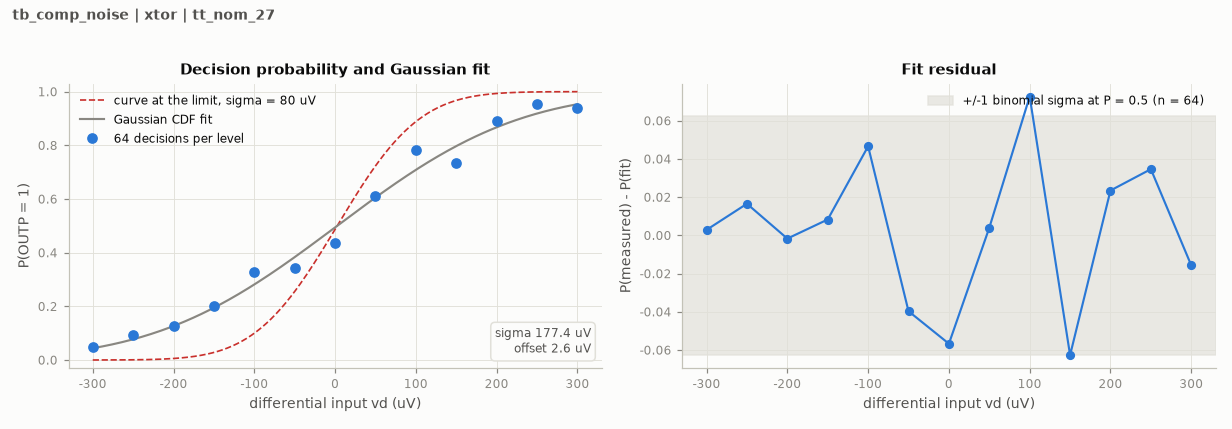
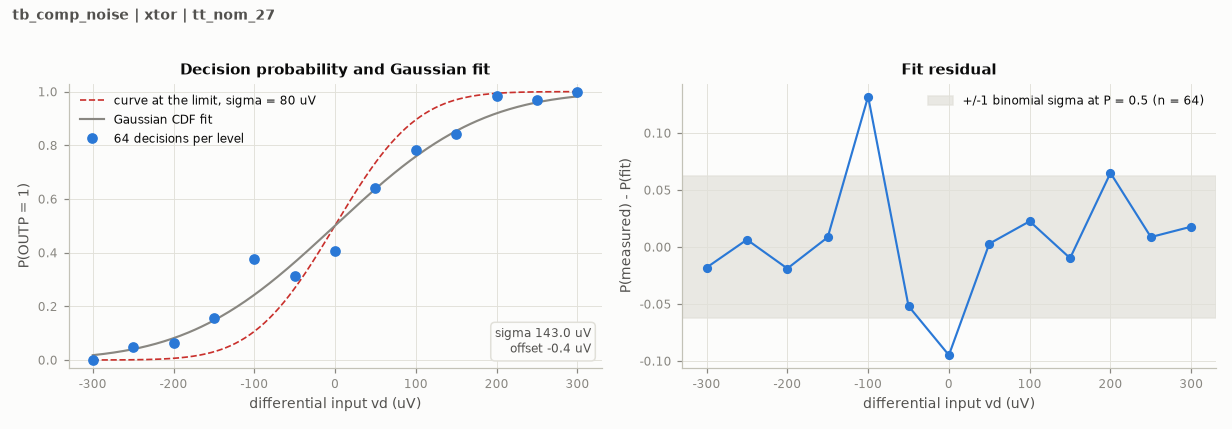
feat(adc_comp): preserve lower-noise higher-capacitance tradeoff

diff --git a/design/xtor/adc_comp/README.md b/design/xtor/adc_comp/README.md
@@ -7,7 +7,7 @@ return-to-zero output inverters. The embedded RNL records show every device,
 wire and body connection and identify the differential pair, matched devices,
 regenerative group and reset group.
 
-Current checkpoint `my03_cb` implements the self-timed core (M1-M15) of
+Current checkpoint `mc14` implements the self-timed core (M1-M15) of
 Miyahara et al., "A Low-Noise Self-Calibrating Dynamic Comparator for
 High-Speed ADCs," A-SSCC 2008, Fig. 2(b), DOI 10.1109/ASSCC.2008.4708780.
 The paper's offset-compensation devices and charge pump are omitted. P/N
@@ -116,3 +116,18 @@ Each instantiated unit was solved successfully without warnings. Its TT
 noise fit improves but still fails the 80 uV limit; 30 mV delay also fails.
 Earlier checkpoints remain useful as default-model comparisons, not as
 equivalent layouts. Noise differences use only one seed at this stage.
+
+
+## Measured allocation tradeoff checkpoints
+
+These callback-parameterized Miyahara variants are retained to support a
+system-level budget decision; none satisfies the current 80 uV noise limit.
+
+| Experiment | TT noise | Delay at 1 / 30 mV | Reset | Energy | Cin | Kickback |
+|---|---|---|---|---|---|---|
+| mc14 | 143.0 uV | 74.18 / 60.98 ps | 25.83 ps | 208.34 fJ | 28.56 fF | 0.108 uV |
+
+mc14 doubles the input-pair total width to 80 um per side, with a 3 um tail
+and 6 um precharge devices. Its lower noise requires more input capacitance
+and energy and still misses the 30 mV delay limit. All other measurements
+above are TT only for this checkpoint. It is a measured tradeoff, not signoff.
